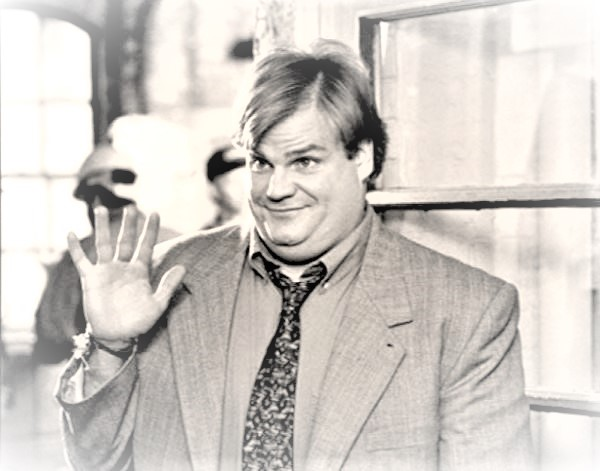
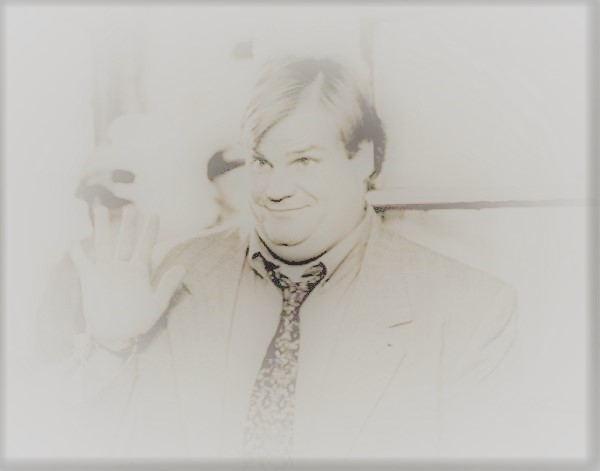
final picture

diff --git a/assets/css/style.css b/assets/css/style.css
@@ -2,7 +2,7 @@ body {
     text-align: center;
     margin: auto;
     background-image: url("../images/TommyBoy.JPG");
-    background-size: 100% auto;
+    background-size: 25% auto;
 }
 
 header {
@@ -11,34 +11,35 @@ header {
     text-shadow: 3px 3px 3px black;
     position: fixed;
     top: 0px;
-    font-family: 'Capriola', sans-serif;
+    font-family: 'Fredoka One', cursive;
     font-size: 35px;
-   
     border-radius: 15px;
     width: 100%;
 }
 #time-remaining {
     font-weight: bold;
-    font-size: 30px;
+    font-size: 50px;
+    font-family: 'Fredoka One', cursive;
 }
 .question {
     margin: auto;
-    width: 90%;
-    font-family: 'Capriola', sans-serif;
-    font-size: 24px;
-    font-weight: bold;
-    color: rgb(12, 12, 12);
+    width: 100%;
+    font-family: 'Fredoka One', cursive;
+    font-size: 33px;
+    font-weight: regular;
+    color: rgb(62, 9, 92);
 }
 h1 {
     padding: 0px;
     margin: 10px;
-    font-family: 'Capriola', sans-serif;
+    font-family: 'Fredoka One', cursive;
+    
 }
 .button {
     letter-spacing: 2px;
-    font-family: 'Capriola', sans-serif;
+    font-family: 'Fredoka One', cursive;
     color: rgb(12, 12, 12);
-    font-size: 30px;
+    font-size: 28px;
     padding: 5px 15px 5px 15px;
     border-radius: 6px;
     border-bottom: grey solid 2px;
@@ -49,6 +50,7 @@ h1 {
     color: rgb(94, 11, 150);
     text-shadow: 2px 2px 2px black;
     font-size: 30px;
+    font-family: 'Fredoka One', cursive;
 }
 #start-button {
     margin: 0px 0px 40px 0px;
@@ -57,7 +59,7 @@ h1 {
 }
 #restart-button {
     letter-spacing: 2px;
-    font-family: 'Capriola', sans-serif;
+    font-family: 'Fredoka One', cursive;
     color: rgb(94, 11, 150);
     text-shadow: 2px 2px 2px black;
     font-size: 30px;
@@ -71,7 +73,7 @@ form {
     margin-top: 10px;
     margin-bottom: 30px;
     width: 100%;
-    font-family: 'Capriola', sans-serif;
-    color: rgb(39, 16, 172);
-    font-size: 20px;
+    font-family: 'Fredoka One', cursive;
+    color: rgb(15, 15, 15);
+    font-size: 30px;
 }

diff --git a/index.html b/index.html
@@ -13,7 +13,8 @@
 
         <link rel="stylesheet" type="text/css" media="screen" href="assets/css/style.css"/>
      
-        <link href="https://fonts.googleapis.com/css?family=Capriola" rel="stylesheet">
+        
+        <link href="https://fonts.googleapis.com/css?family=Chewy|Fredoka+One" rel="stylesheet">
     
     </head>
     
@@ -55,8 +56,8 @@
         <form >
             <input type="radio" name=3 class="choice" value="correct"> "Holy Snikes!"
             <input type="radio" name=3 class="choice" value="wrong"> "Shut Up Richard"
-            <input type="radio" name=3 class="choice" value="wrong"> "Hi, How are you?""
-            <input type="radio" name=3 class="choice" value="wrong"> "I knew it...""
+            <input type="radio" name=3 class="choice" value="wrong"> "Hi, How are you?"
+            <input type="radio" name=3 class="choice" value="wrong"> "I knew it..."
         </form>
     
         <br>
